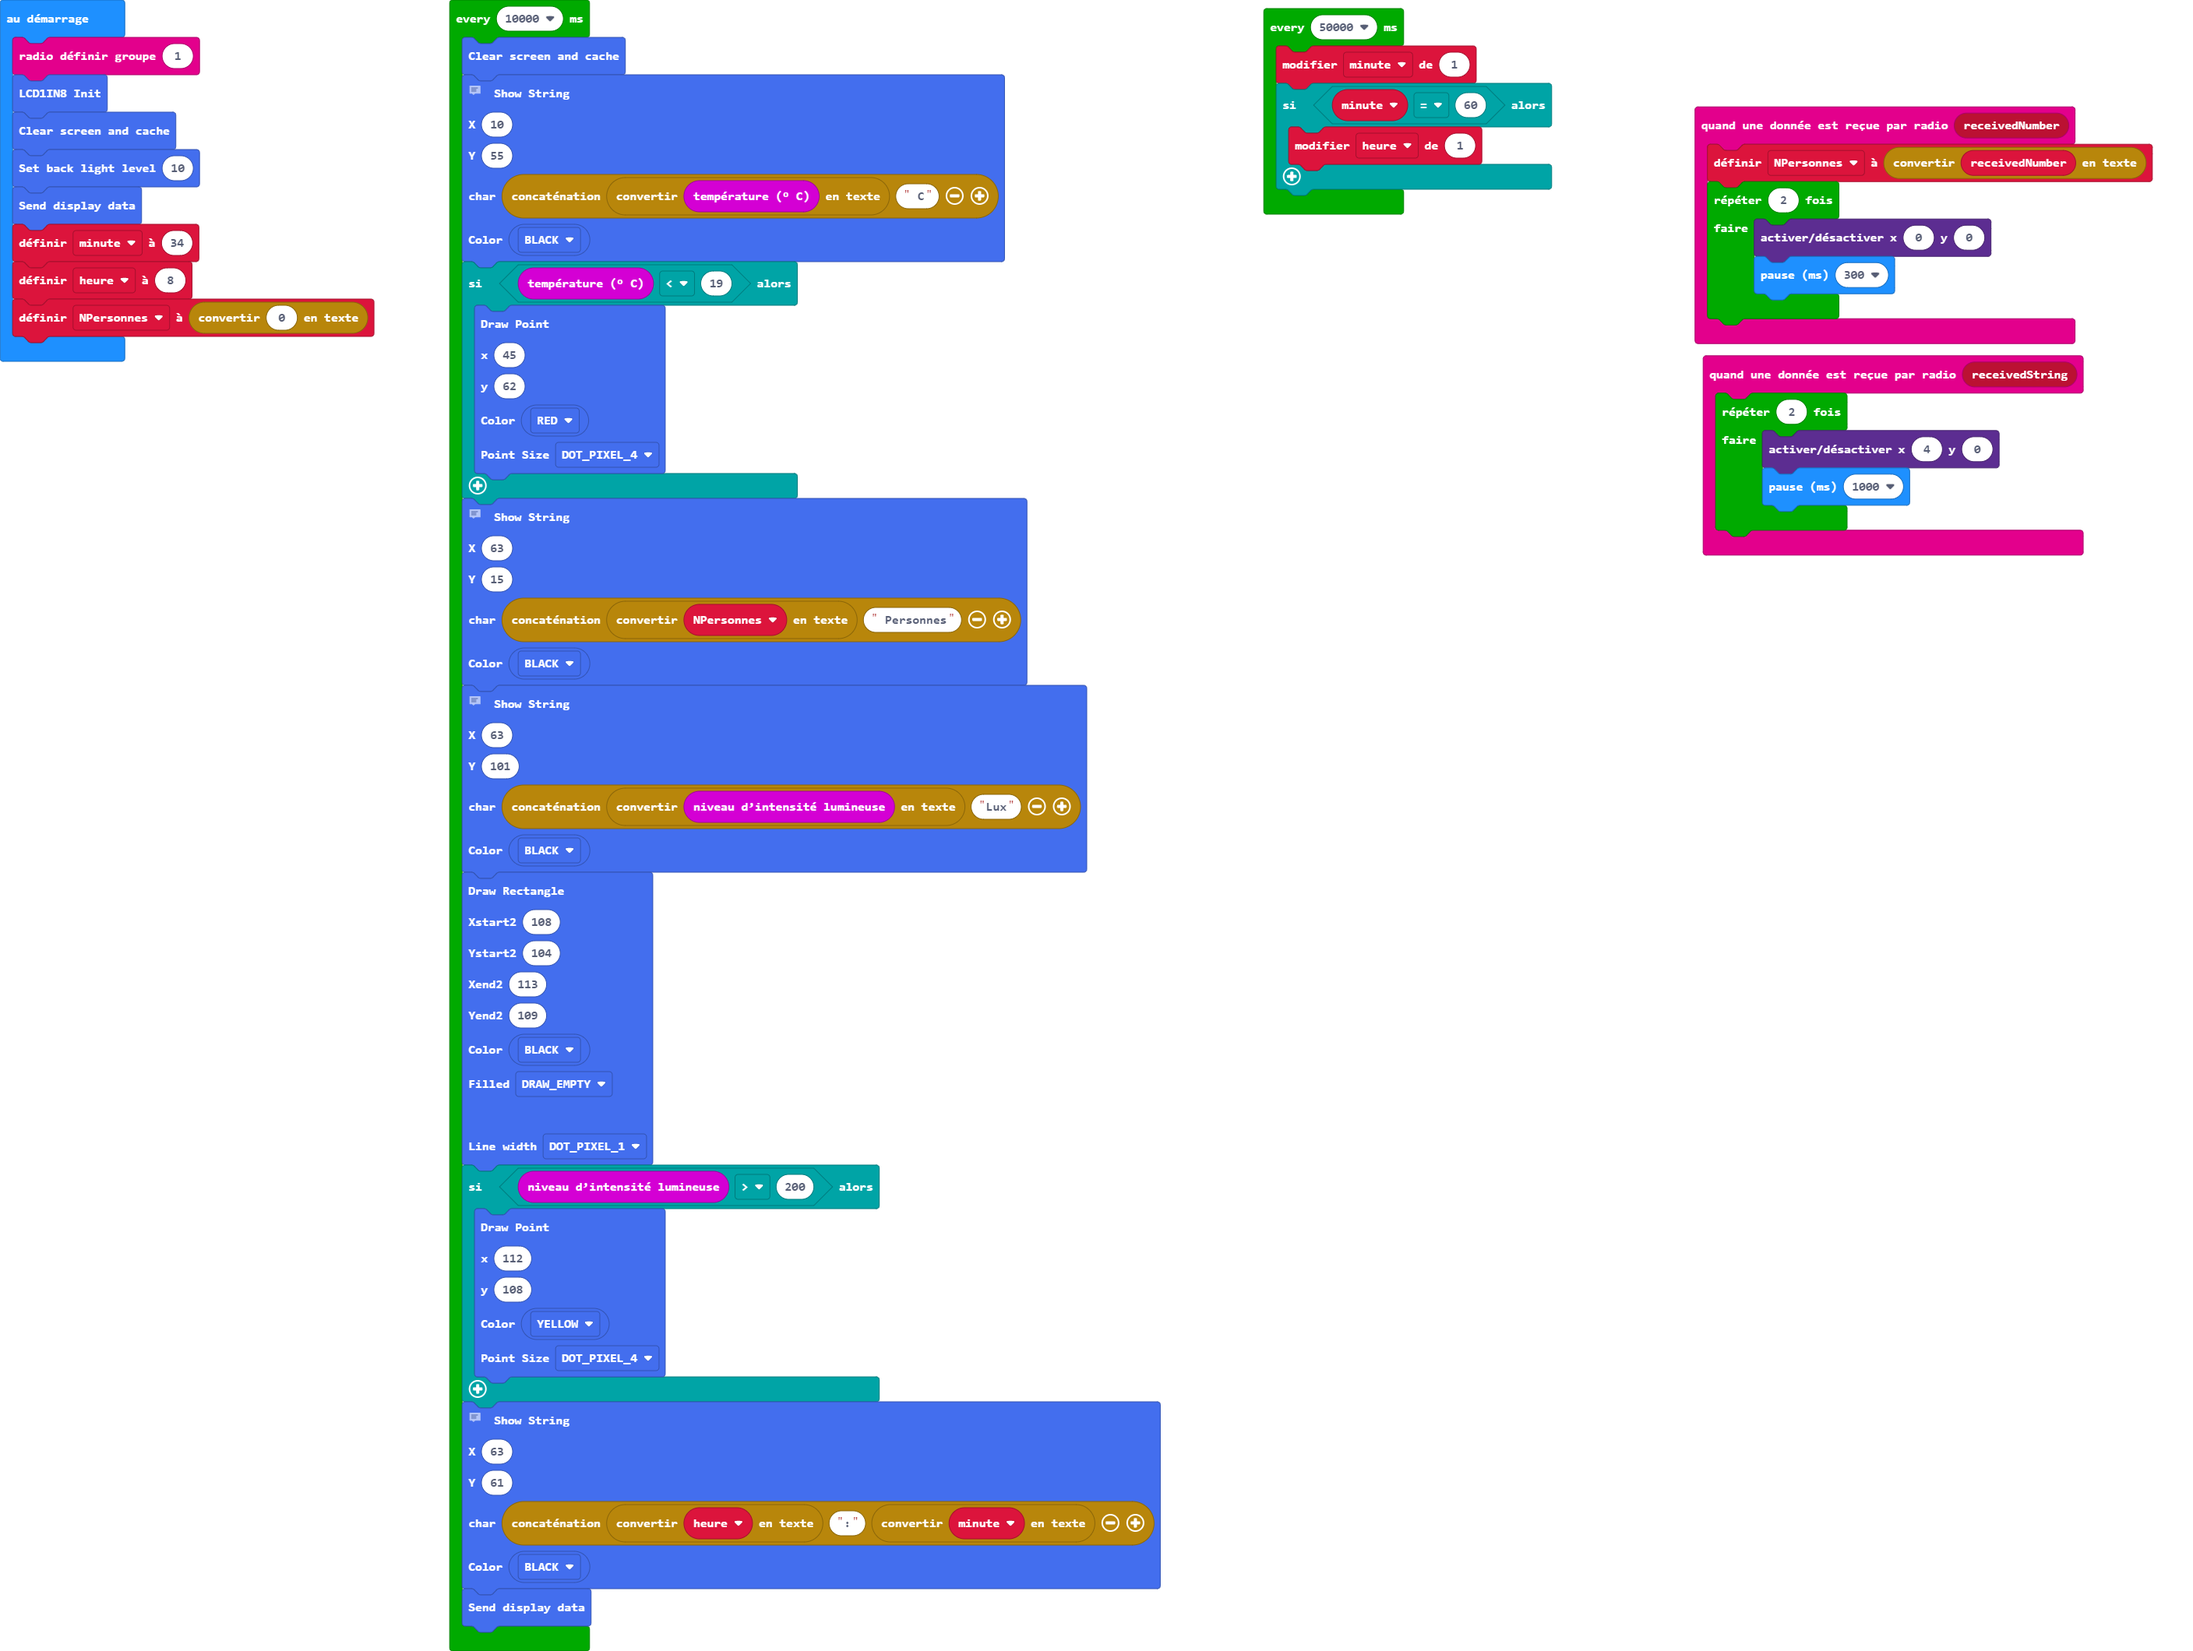
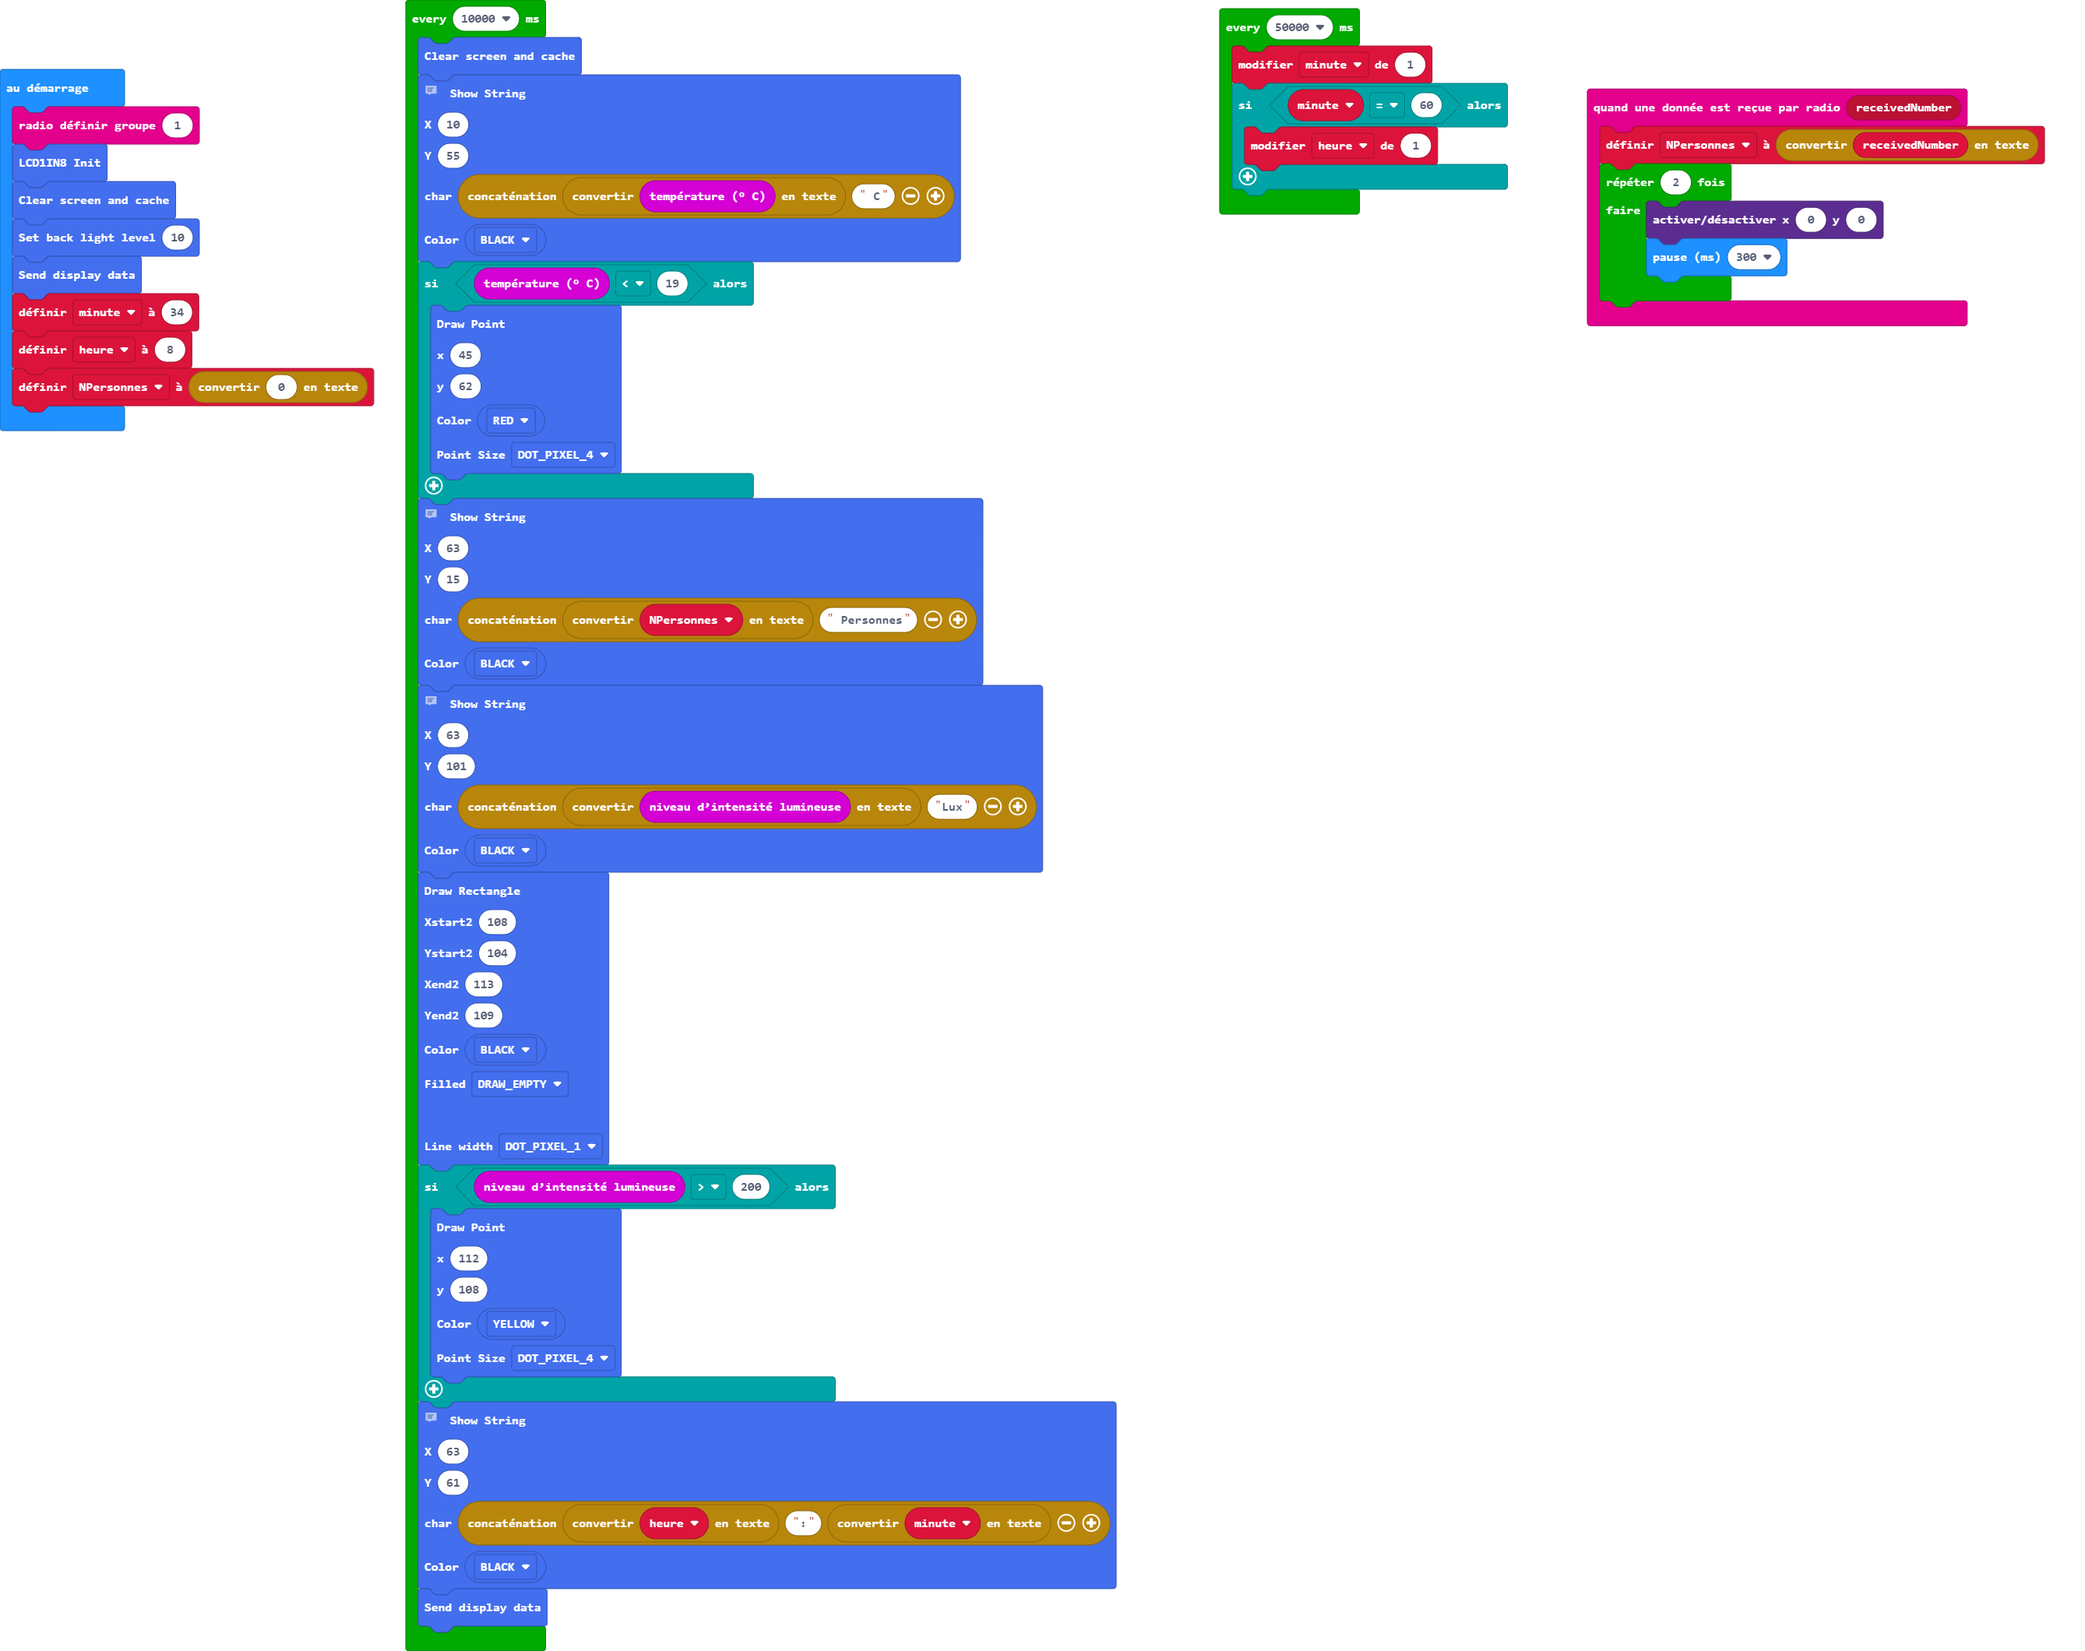
remove status LED

diff --git a/main.ts b/main.ts
@@ -5,12 +5,6 @@ radio.onReceivedNumber(function (receivedNumber) {
         basic.pause(300)
     }
 })
-radio.onReceivedString(function (receivedString) {
-    for (let index = 0; index < 2; index++) {
-        led.toggle(4, 0)
-        basic.pause(1000)
-    }
-})
 let NPersonnes = ""
 radio.setGroup(1)
 LCD1IN8.LCD_Init()
